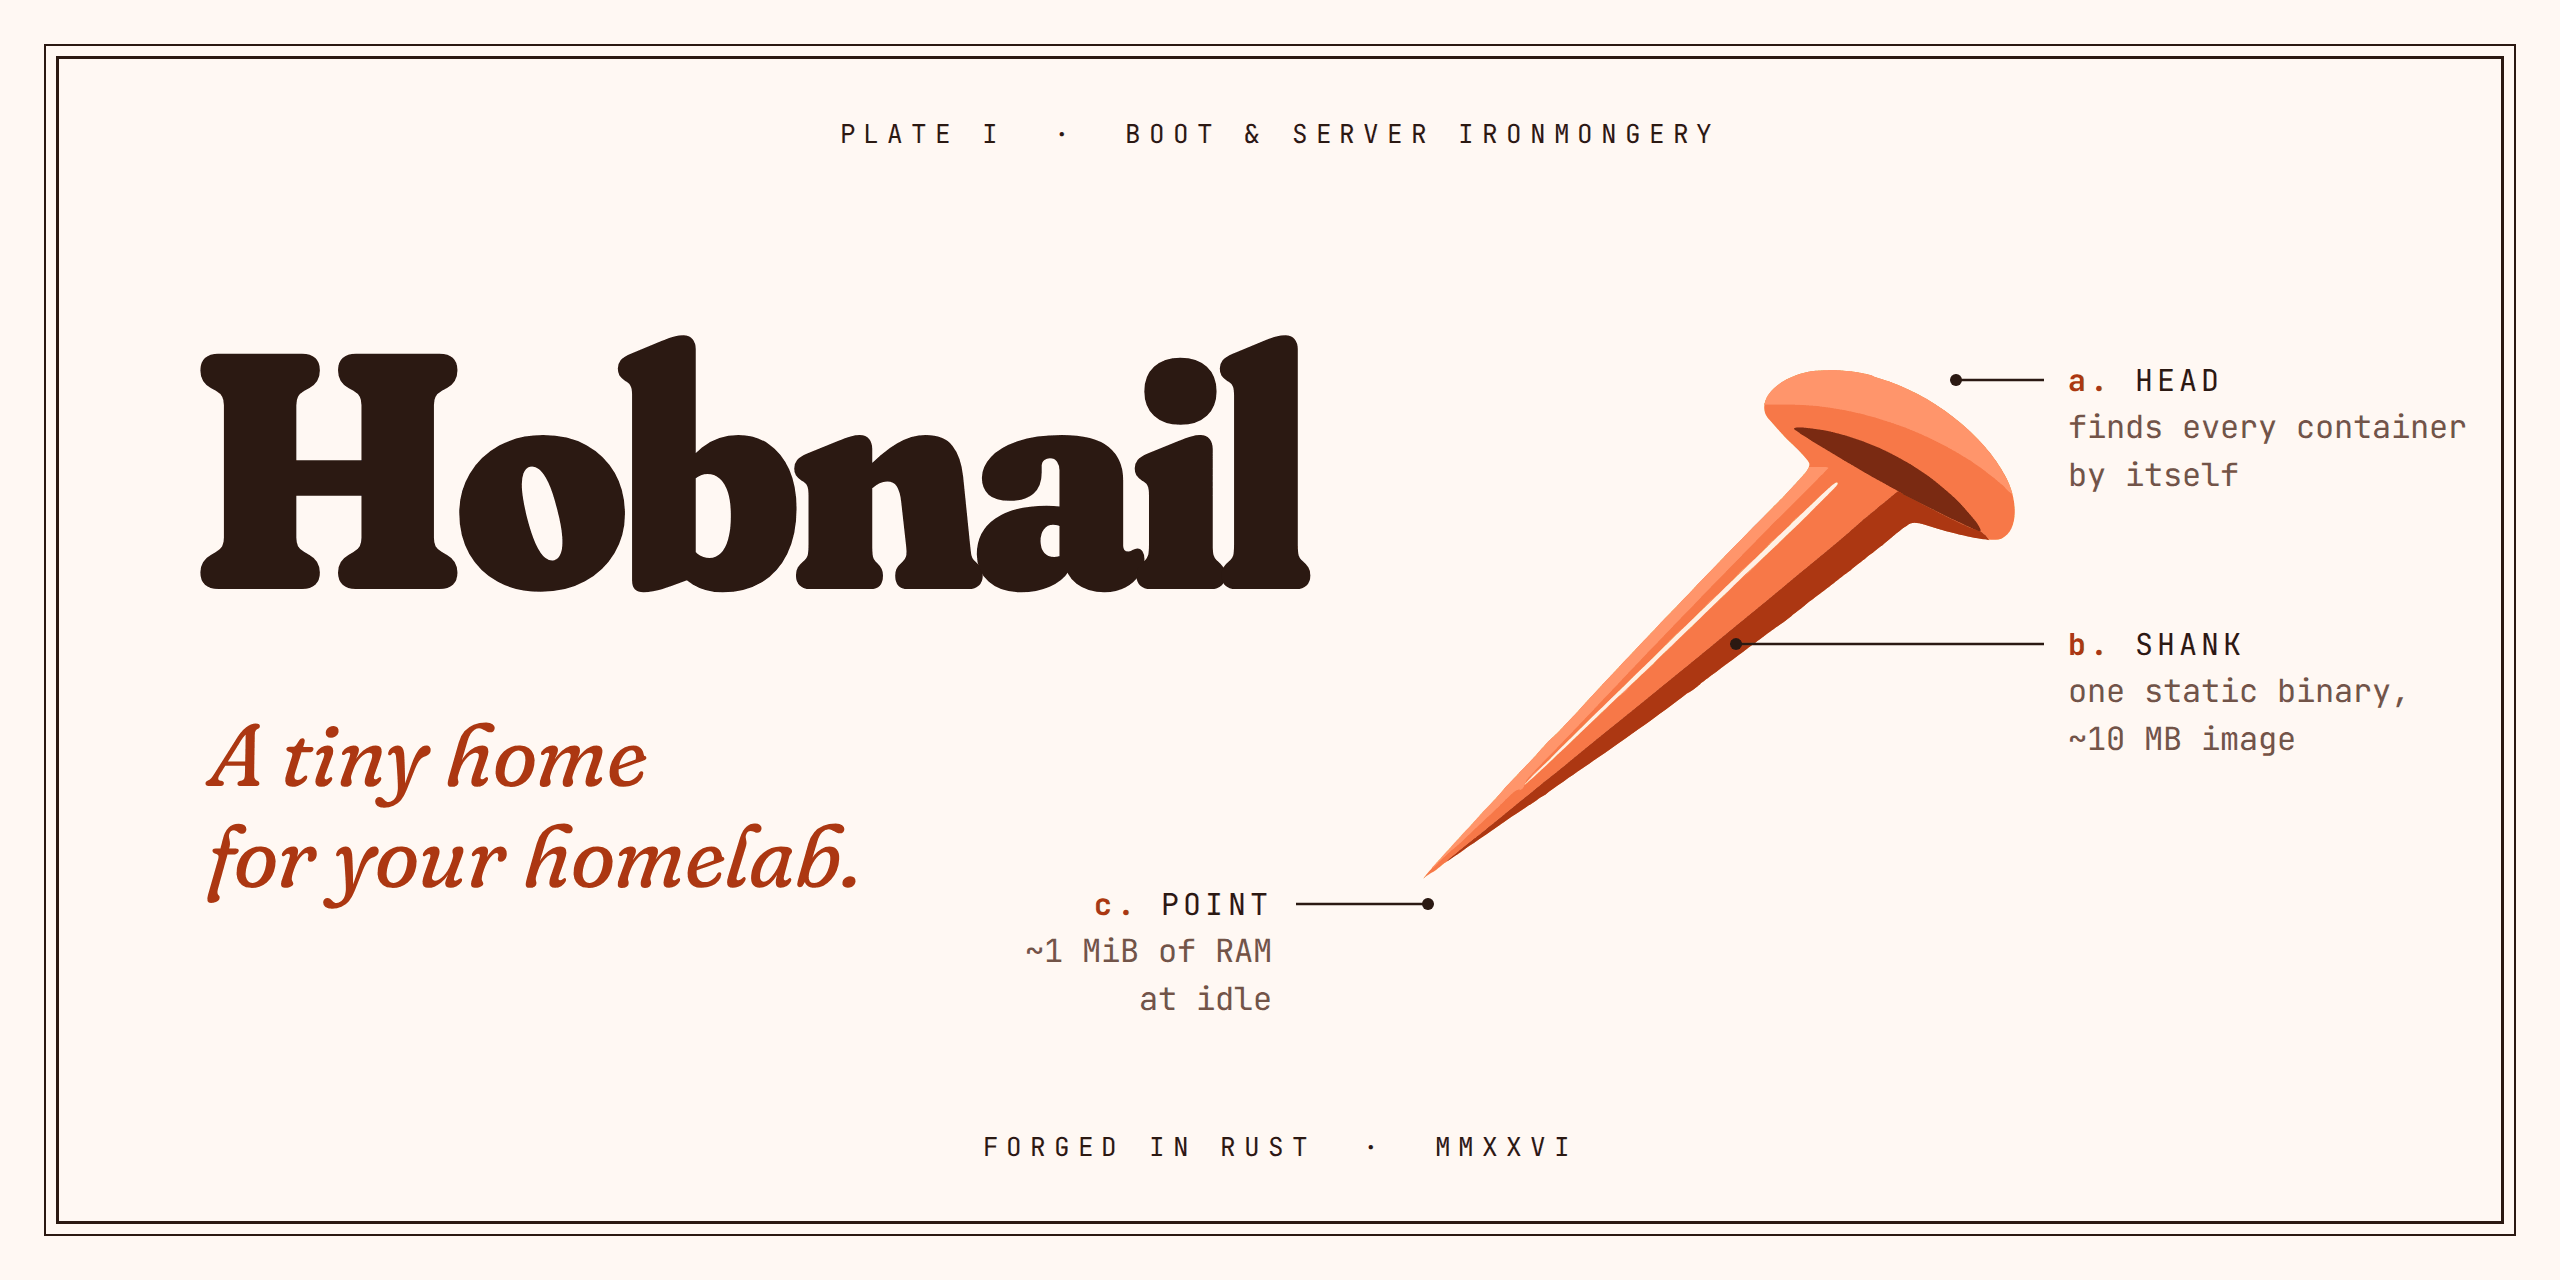
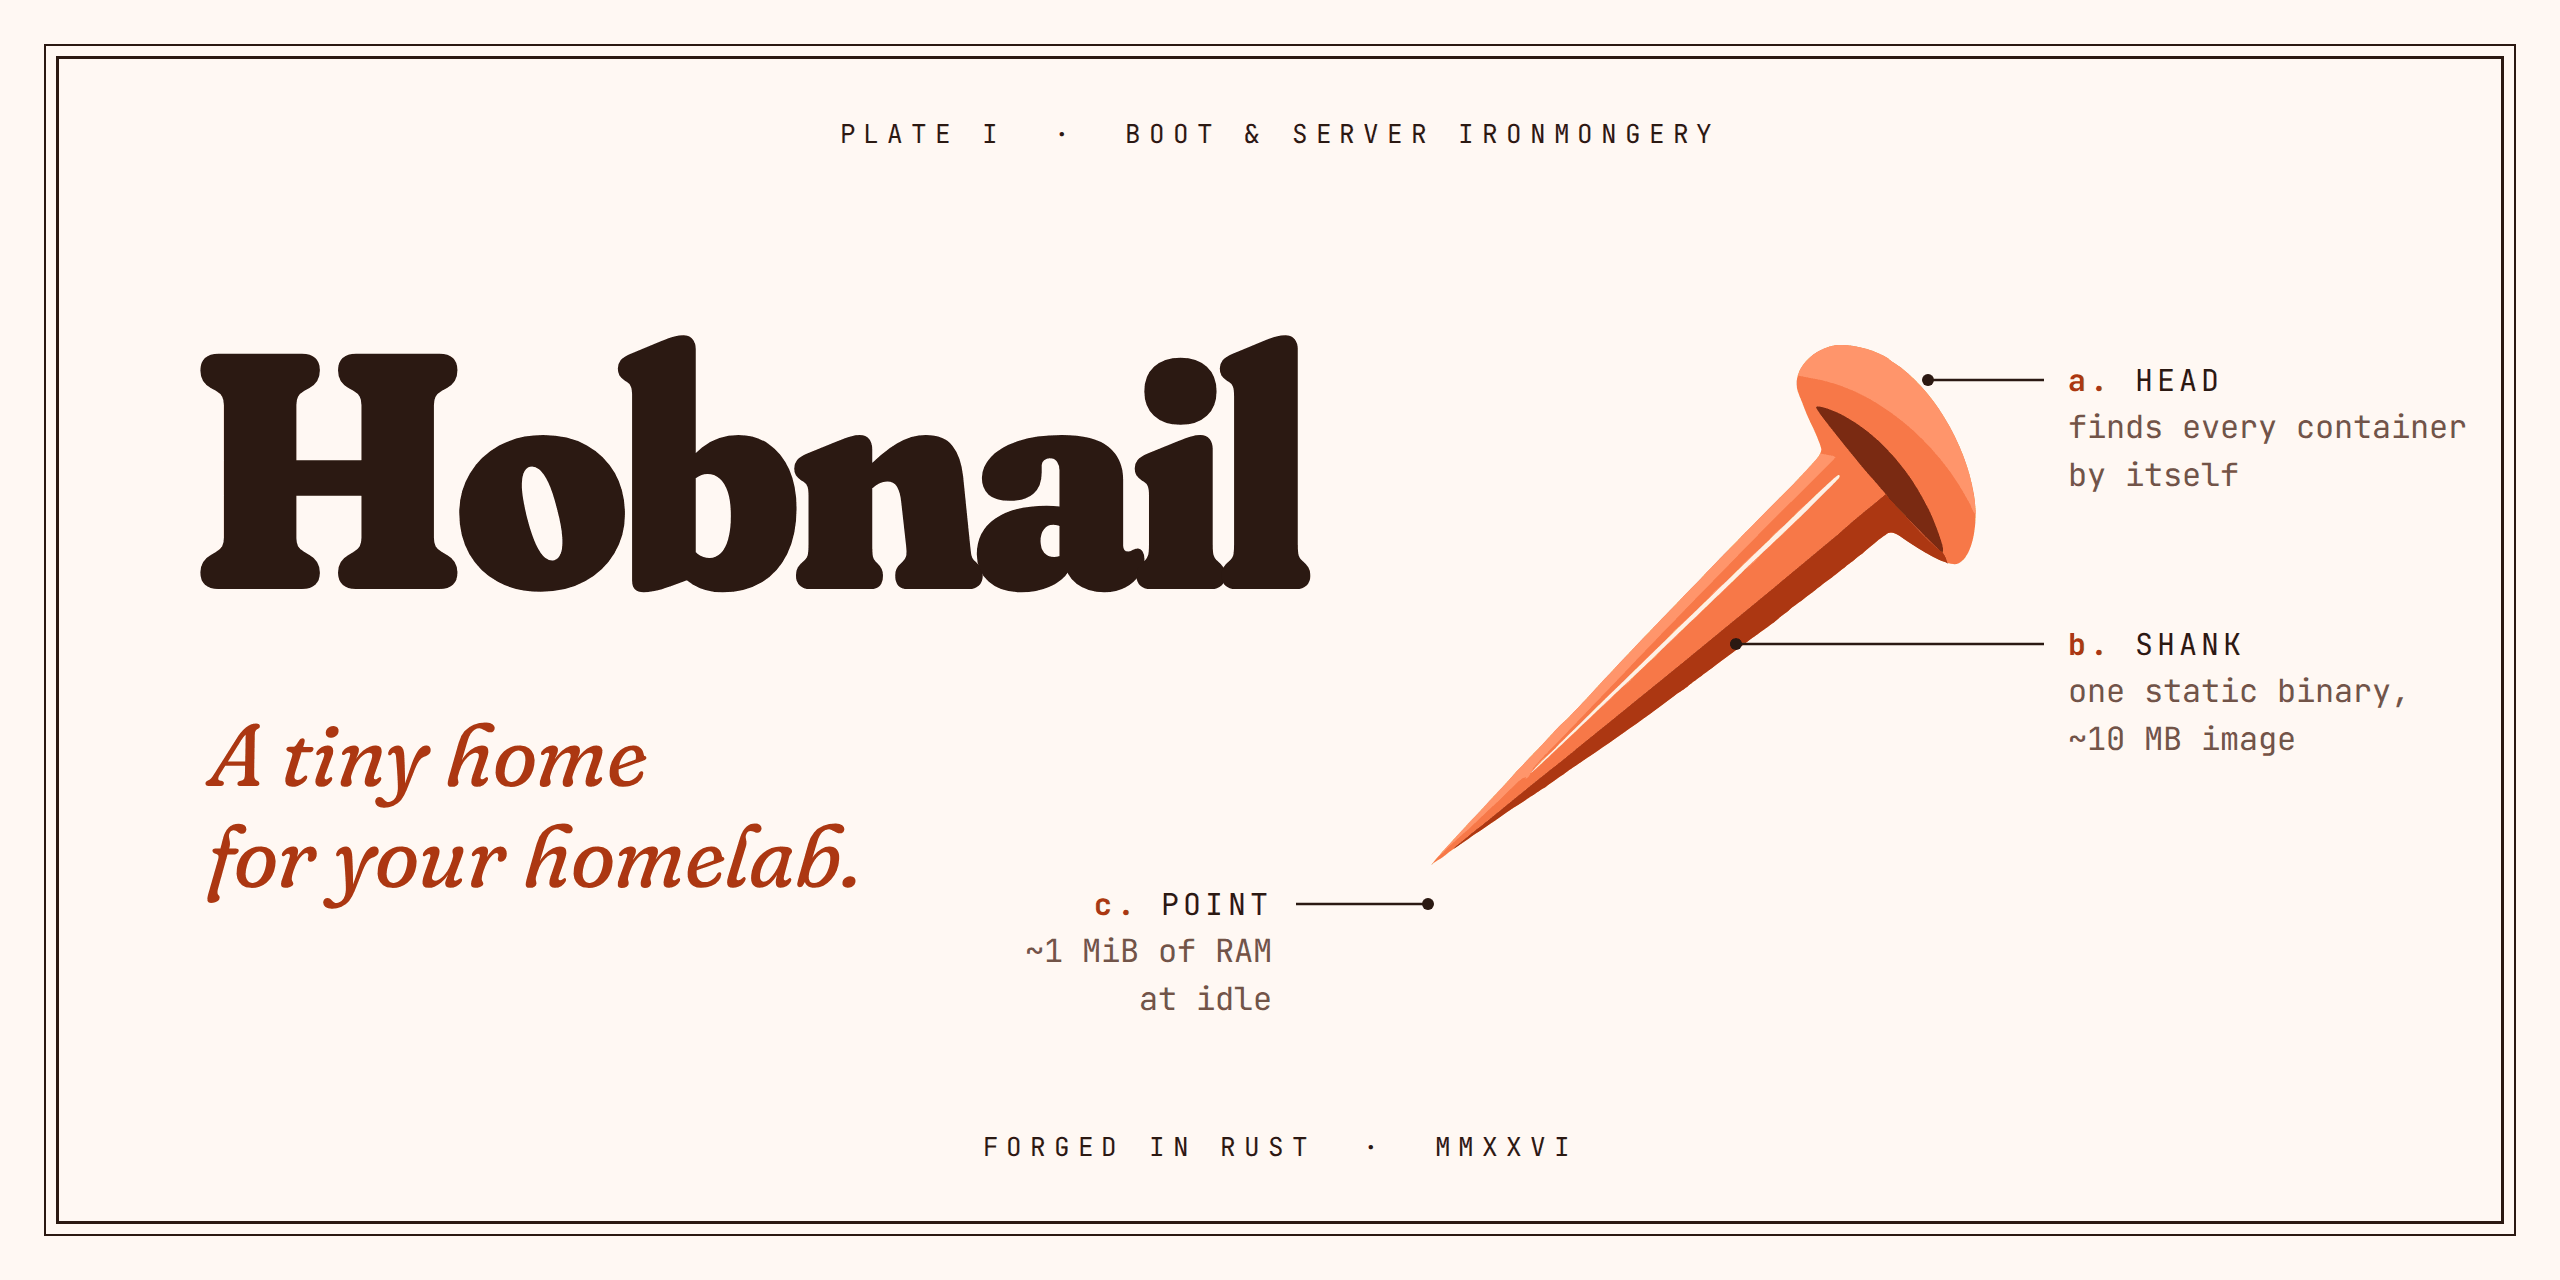
Brand: straighten the nail
The head was drawn about 20 degrees off square to the shank, so the upright
nail in the wordmark looked bent and the tilted mark looked like only its
head was turned. The mark is now one straight nail, rotated as a whole where
it is tilted. All assets rebuilt from it.

Changed region(s): [[0.5938, 0.25, 0.8125, 0.625], [0.5625, 0.625, 0.5938, 0.6875]]

diff --git a/docs/brand/src/build.py b/docs/brand/src/build.py
@@ -38,10 +38,10 @@ def facets():
     return f'<path fill="{T["mid"]}" d="{M["silhouette"]}"/>' + "".join(
         f'<path fill="{T[k]}" d="{M["facets"][k]}"/>' for k in ("hi", "lo", "sh", "glint"))
 
-FULL = "180 224 664 576"      # the whole nail, trimmed
+FULL = "195 207 607 579"      # the whole nail, trimmed
 CLOSE = "371 110 560 560"     # head and upper shank: the point runs off the corner (small sizes)
 TILT = 49.5                   # degrees from upright; rotate(-TILT) stands the nail on its point
-UP = (362, 182, 274, 735)     # bounding box of the upright nail (x, y, w, h)
+UP = (356, 174, 284, 746)     # bounding box of the upright nail (x, y, w, h)
 
 def svg(inner, view, extra=""):
     return f'<svg xmlns="http://www.w3.org/2000/svg" viewBox="{view}"{extra}>{inner}</svg>'
@@ -181,8 +181,8 @@ def plate():
             f'<div class="c c2 mono"><b>b.</b> SHANK<span>one static binary,<br>~10 MB image</span></div>'
             f'<div class="c c3 mono"><b>c.</b> POINT<span>~1 MiB of RAM<br>at idle</span></div>'
             f'<svg class="ln" width="1280" height="640"><g stroke="{P["ink"]}" stroke-width="1.2" fill="none">'
-            f'<path d="M978 190 H1022"/><path d="M868 322 H1022"/><path d="M714 452 H648"/></g>'
-            f'<g fill="{P["ink"]}"><circle cx="978" cy="190" r="3"/><circle cx="868" cy="322" r="3"/><circle cx="714" cy="452" r="3"/></g></svg>')
+            f'<path d="M964 190 H1022"/><path d="M868 322 H1022"/><path d="M714 452 H648"/></g>'
+            f'<g fill="{P["ink"]}"><circle cx="964" cy="190" r="3"/><circle cx="868" cy="322" r="3"/><circle cx="714" cy="452" r="3"/></g></svg>')
     css = (f'body{{color:{P["ink"]}}}.frame{{position:absolute;inset:28px;border:1.5px solid {P["ink"]};outline:1px solid {P["ink"]};outline-offset:5px}}'
            f'.t,.b{{position:absolute;left:0;right:0;text-align:center;font-size:13px;letter-spacing:.3em}}.t{{top:58px}}.b{{bottom:58px}}'
            f'h1{{position:absolute;left:96px;top:150px;font:900 168px/1 Fraunces,serif;font-variation-settings:"SOFT" 100,"WONK" 1,"opsz" 144;letter-spacing:-.035em}}'

diff --git a/docs/brand/src/trace.py b/docs/brand/src/trace.py
@@ -6,18 +6,30 @@
 Both PNGs are 1024x1024 RGBA with the same outer silhouette. The glyph is one colour with two cut-outs;
 the faceted cut uses the five brand tones. Needs: numpy, pillow, potracer.
 """
-import json, sys
+import json, math, sys
 import numpy as np
 import potrace
 from PIL import Image
 
 TONES = {"mid": "#F77848", "hi": "#FF956B", "lo": "#AC3712", "sh": "#7A2A12", "glint": "#FFF0E5"}
 
+# The drawing has the head about 20 degrees off square to the shank. Stand the nail upright, shear the
+# head level about the point, and lay it back at the brand angle, so the nail is one rigid, straight
+# shape at any rotation.
+TILT, LEVEL, POINT_X = math.radians(49.5), 0.366, 1.6
+
+def straight(p):
+    c, s = math.cos(TILT), math.sin(TILT)
+    x, y = p.x - 512, p.y - 512
+    ux, uy = x * c + y * s, -x * s + y * c
+    uy += LEVEL * (ux - POINT_X)
+    return f"{ux * c - uy * s + 512:.1f} {ux * s + uy * c + 512:.1f}".replace(".0", "")
+
 def path(mask, tol=0.6):
     bm = potrace.Bitmap(~mask)  # potracer treats False as ink
     pl = bm.trace(turdsize=12, alphamax=1.0, opttolerance=tol)
     out = []
-    f = lambda p: f"{p.x:.0f} {p.y:.0f}"
+    f = straight
     for c in pl:
         out.append("M" + f(c.start_point))
         for s in c.segments:

diff --git a/docs/BRANDING.md b/docs/BRANDING.md
@@ -23,6 +23,10 @@ At 64 px and below a long thin nail is a sliver, so small sizes use a close-up:
 the head and upper shank fill the tile and the point runs off the corner. The
 favicon and the app icons are that crop.
 
+The nail is straight: the head sits square on the shank. Where the mark is
+tilted, the whole nail is rotated as one piece (49.5° from upright); the head is
+never angled on its own.
+
 Do not add gradients, outlines, shadows or a 3D render, do not change the tilt,
 and do not redraw the head larger: earlier rounds that did read as a pushpin or
 a mallet.
